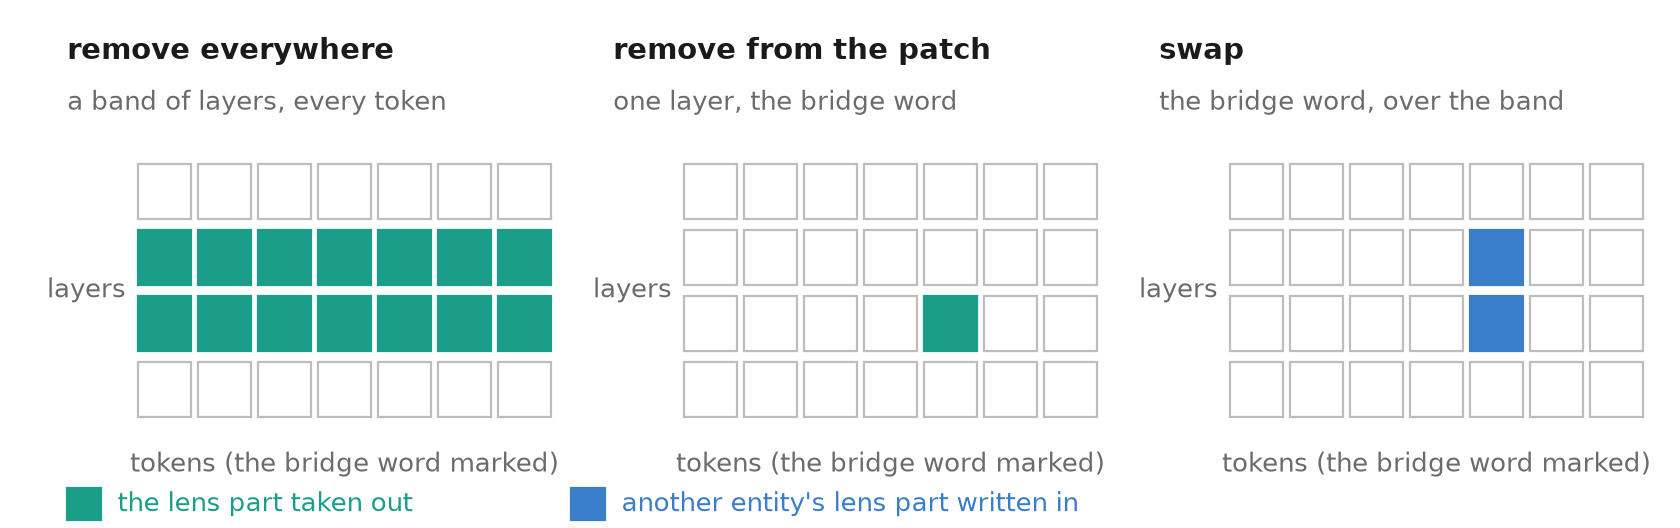
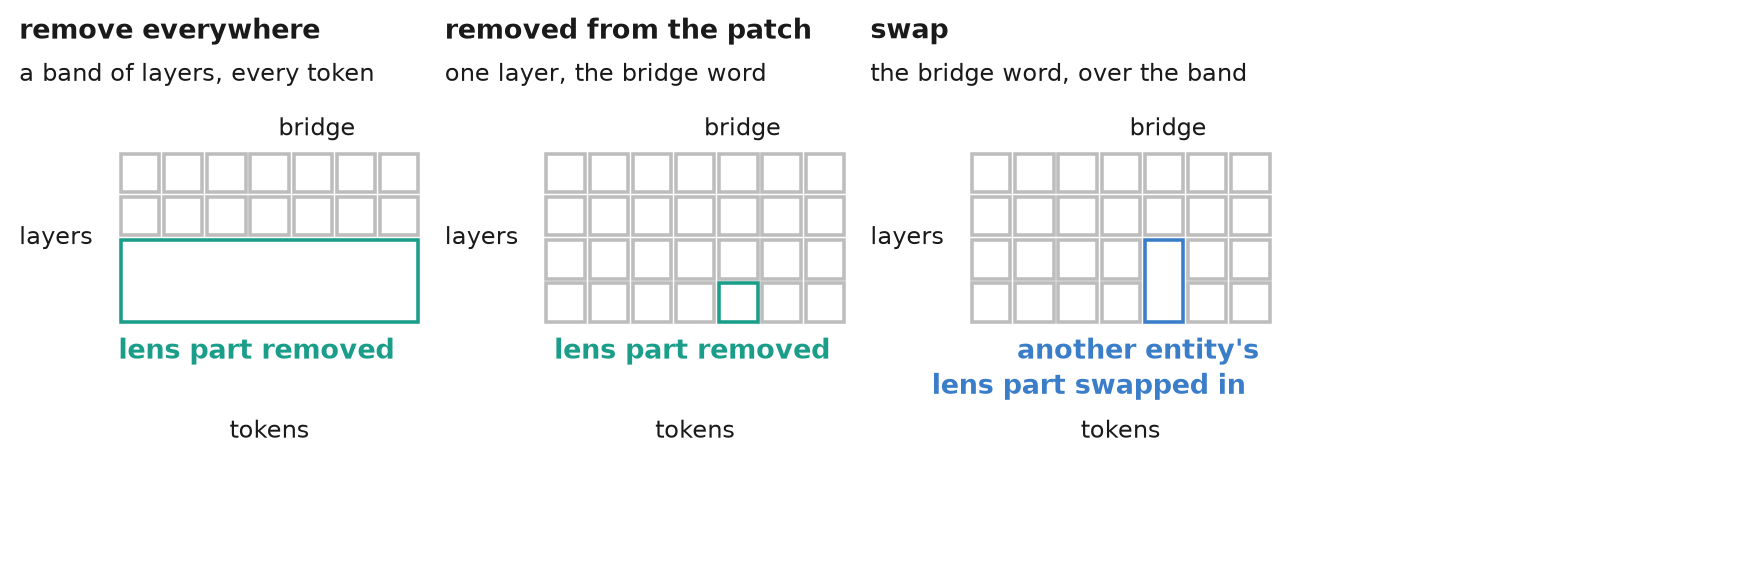
README p0b_tools on styles-plot: the write-up's fig03_tools under the README id
Same three-tools schematic (a word beside every coloured cell, Dan's rule 7);
figkit's readme target no longer builds it.

diff --git a/src/bridge_jspace/figkit/readme_sp.py b/src/bridge_jspace/figkit/readme_sp.py
@@ -30,7 +30,7 @@ TWIN = WB.TWIN
 # README id -> the write-up figure it draws (the same cells and statuses, scripts/status_registry.py copies them)
 ALIAS = {"r1_c1_split": "fig01_main_split", "r3_last_token": "fig13_last_token", "f9_where": "appB_f9_where",
          "f8_facts": "appB_f8_facts", "f8_directions": "appB_f8_directions", "f12_order": "appB_f12_order",
-         "f14_two_codes": "appB_f14_two_codes", "f2_controls": "fig05_controls", "p0a_datasets": "fig02_datasets"}  # fmt: skip
+         "f14_two_codes": "appB_f14_two_codes", "f2_controls": "fig05_controls", "p0a_datasets": "fig02_datasets", "p0b_tools": "fig03_tools"}  # fmt: skip
 WRITEUP = {**WS.FIGS, **WB.BLOCKED}
 
 
@@ -234,7 +234,7 @@ FIGS = {**{fid: _alias(fid) for fid in ALIAS}, "r1_dan_split": r1_dan_split, "r4
 # 'address swap' and 'a change of item' overlap in one strip; value labels on a mark and across lines).
 BLOCKED = {"f6_address": f6_address}
 # Left on figkit: f3_nine_models (a second same-role estimate in one row: Bolt at 100 directions, the 122B scored by
-# probability), r5_routes (stack whiskers), p0b_tools (a schematic of coloured grid cells, as the write-up's fig03).
+# probability), r5_routes (stack whiskers).
 
 
 DEPTH = REPO / "figures" / "depth"
